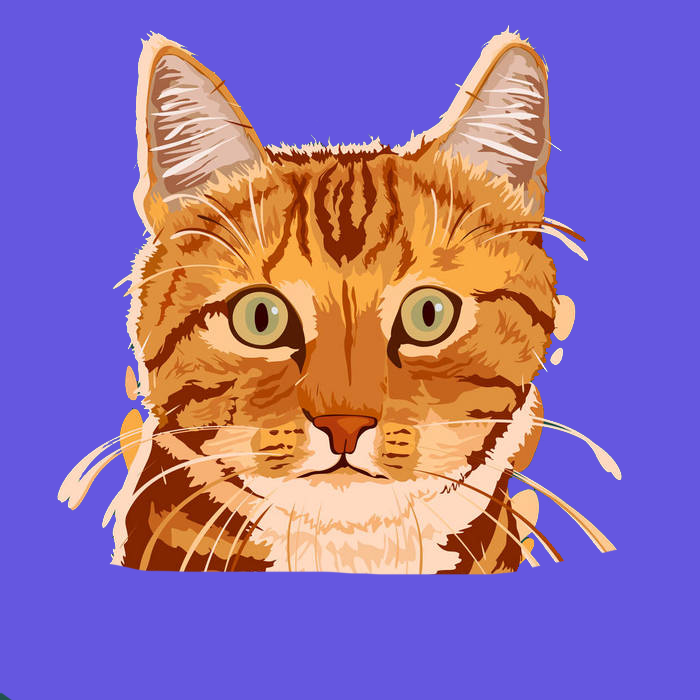
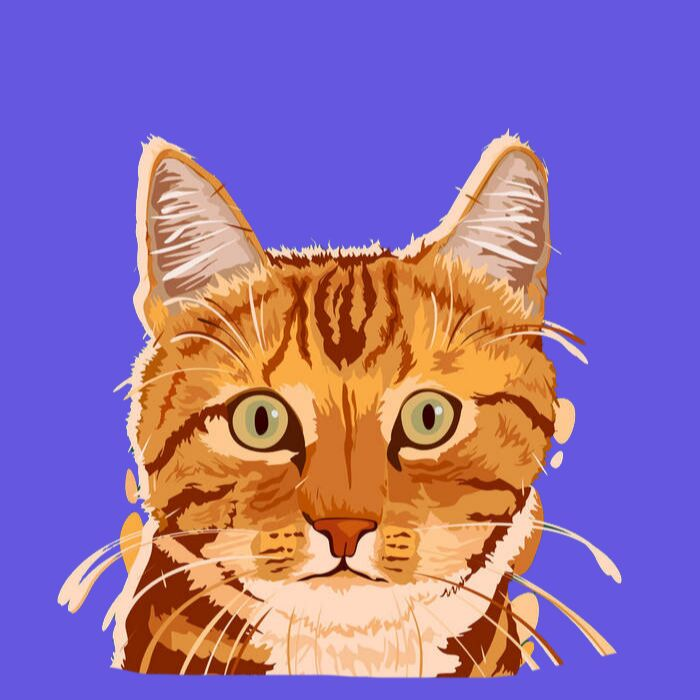
svg to circle

diff --git a/index.html b/index.html
@@ -67,21 +67,15 @@
                     </div>
 
                     <div class="home__img">
-                        <svg class="home__blob" viewBox="0 0 200 187" xmlns="http://www.w3.org/2000/svg"
-                            xmlns:xlink="http://www.w3.org/1999/xlink">
-                            <mask id="mask0" mask-type="alpha">
-                                <path d="M190.312 36.4879C206.582 62.1187 201.309 102.826 182.328 134.186C163.346 165.547 
-                                    130.807 187.559 100.226 186.353C69.6454 185.297 41.0228 161.023 21.7403 129.362C2.45775 
-                                    97.8511 -7.48481 59.1033 6.67581 34.5279C20.9871 10.1032 59.7028 -0.149132 97.9666 
-                                    0.00163737C136.23 0.303176 174.193 10.857 190.312 36.4879Z" />
-                            </mask>
-                            <g mask="url(#mask0)">
-                                <path d="M190.312 36.4879C206.582 62.1187 201.309 102.826 182.328 134.186C163.346 
-                                    165.547 130.807 187.559 100.226 186.353C69.6454 185.297 41.0228 161.023 21.7403 
-                                    129.362C2.45775 97.8511 -7.48481 59.1033 6.67581 34.5279C20.9871 10.1032 59.7028 
-                                    -0.149132 97.9666 0.00163737C136.23 0.303176 174.193 10.857 190.312 36.4879Z" />
-                                <image class="home__blob-img" x='8' y='23' xlink:href="assets/img/perfil.png" />
-                            </g>
+                        <svg id="graph" width="100%" height="400px">
+                            <defs>
+                                <pattern id="image" x="0%" y="0%" height="100%" width="100%" viewBox="0 0 512 512">
+                                    <image x="0%" y="0%" width="530" height="530" xlink:href="assets/img/perfil.png">
+                                    </image>
+                                </pattern>
+                            </defs>
+                            <circle id="sd" class="medium" cx="50%" cy="47%" r="42%" fill="url(#image)"
+                                stroke="lightblue" stroke-width="0%" />
                         </svg>
                     </div>
 
